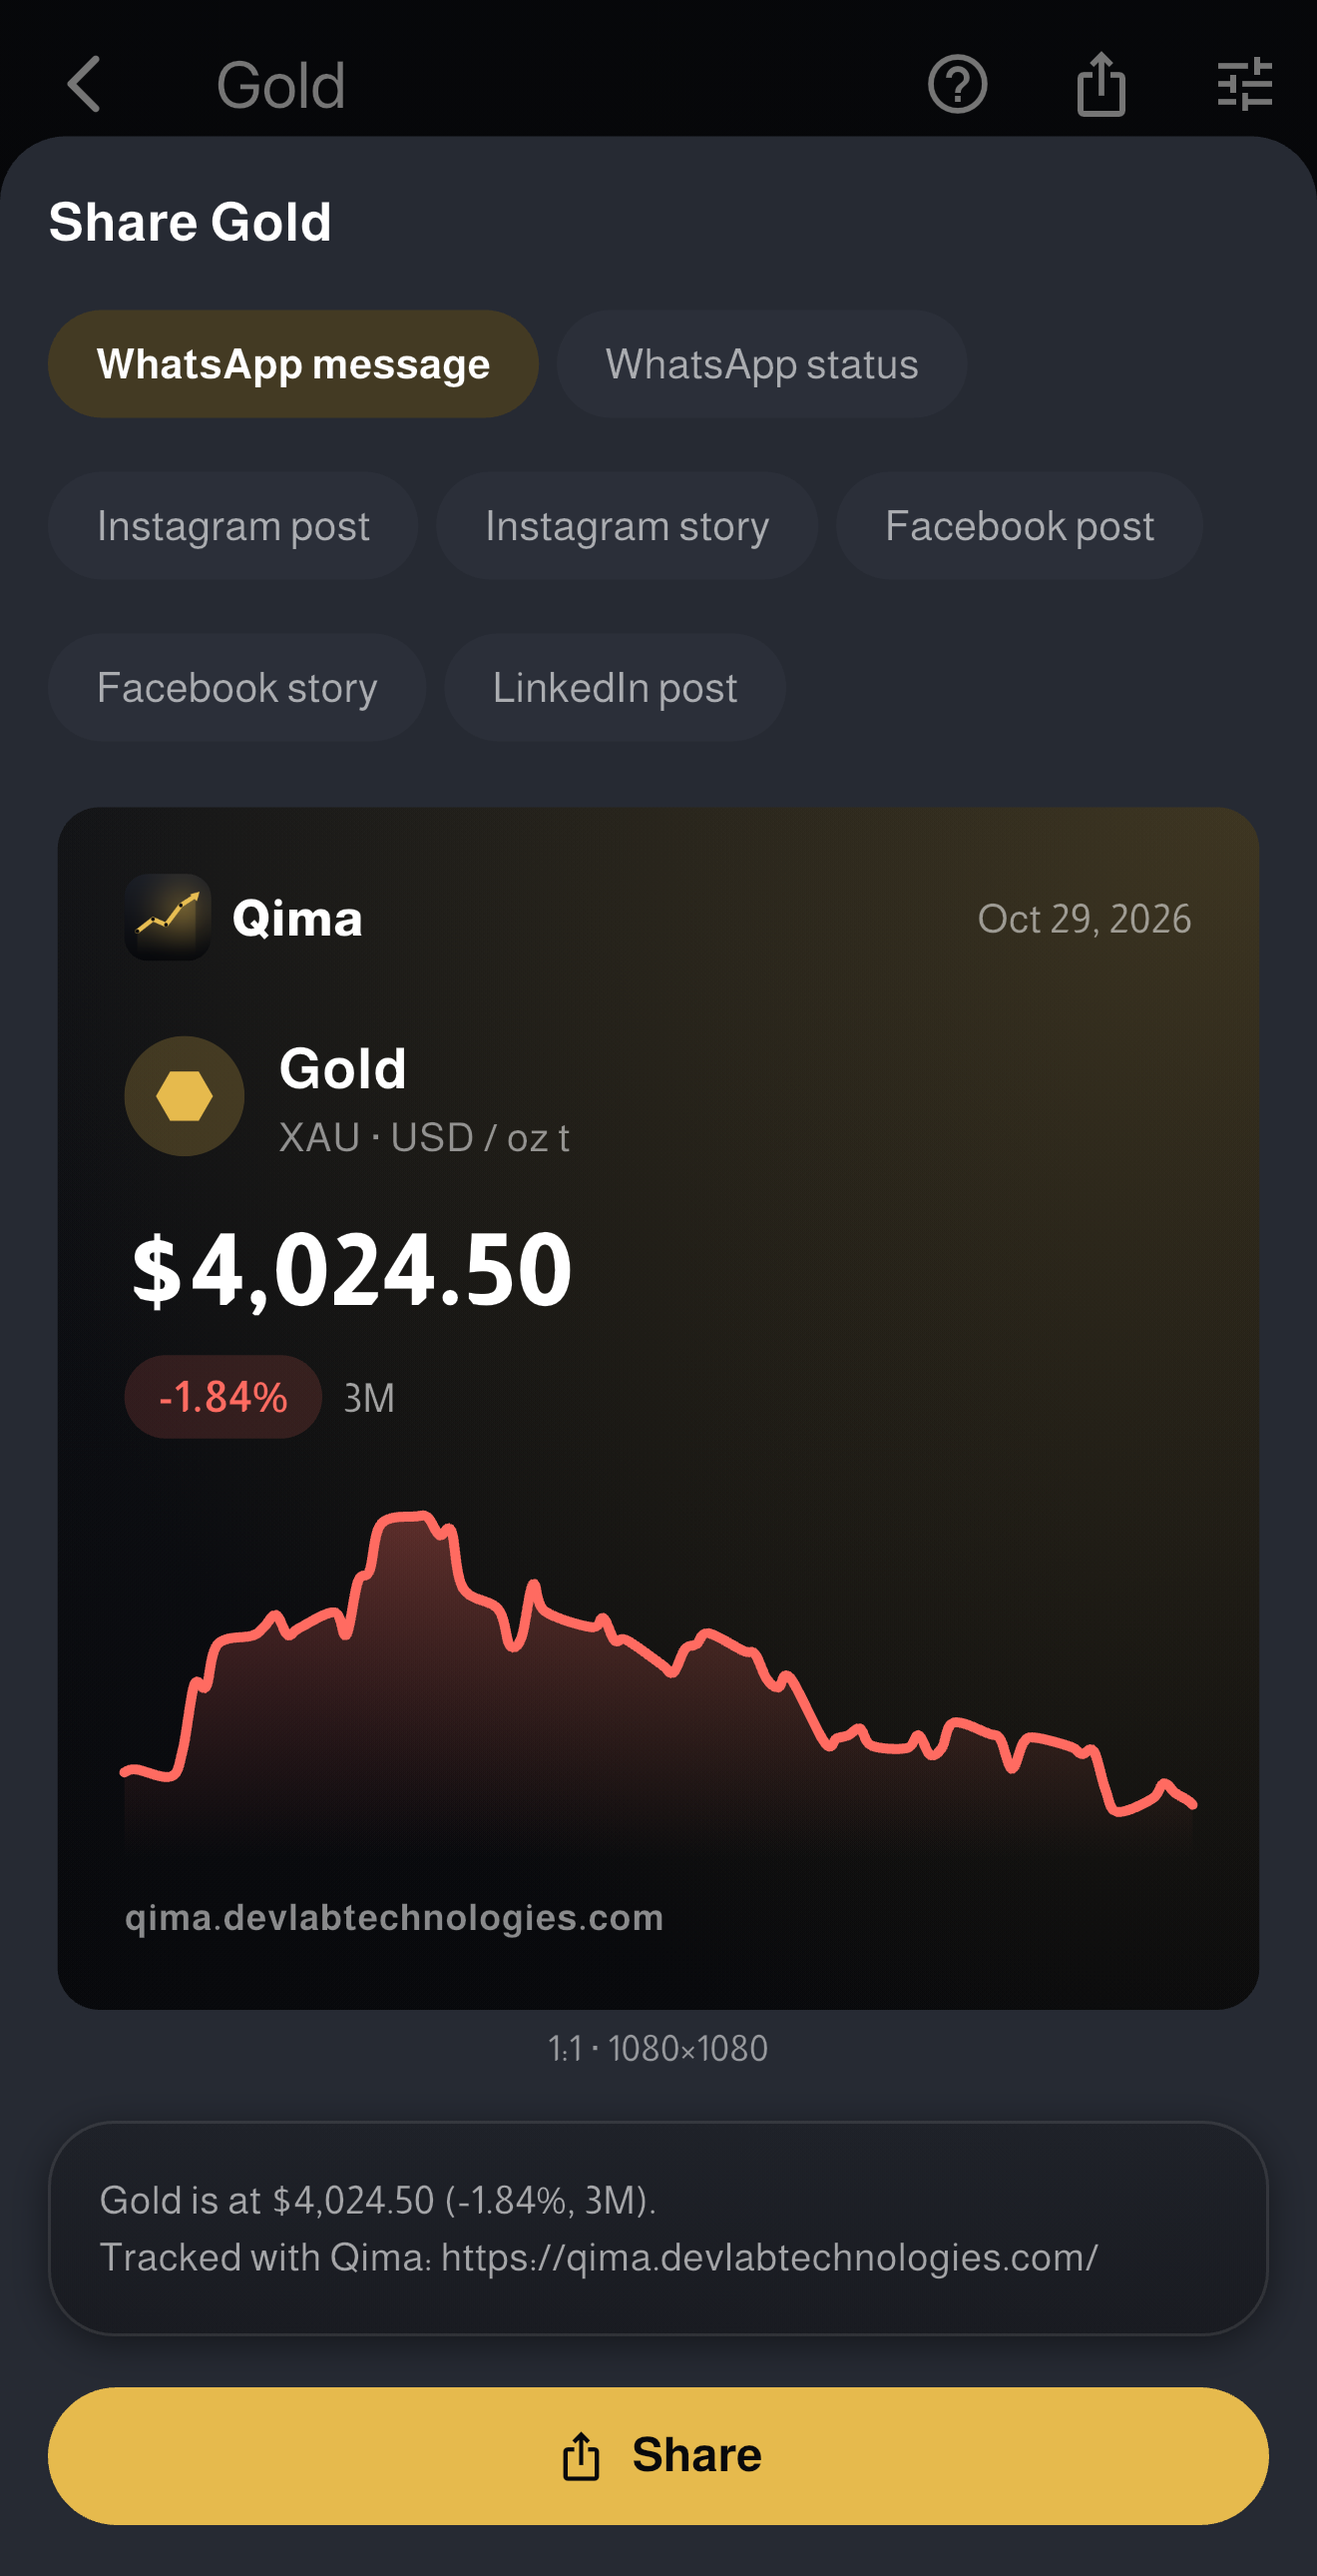
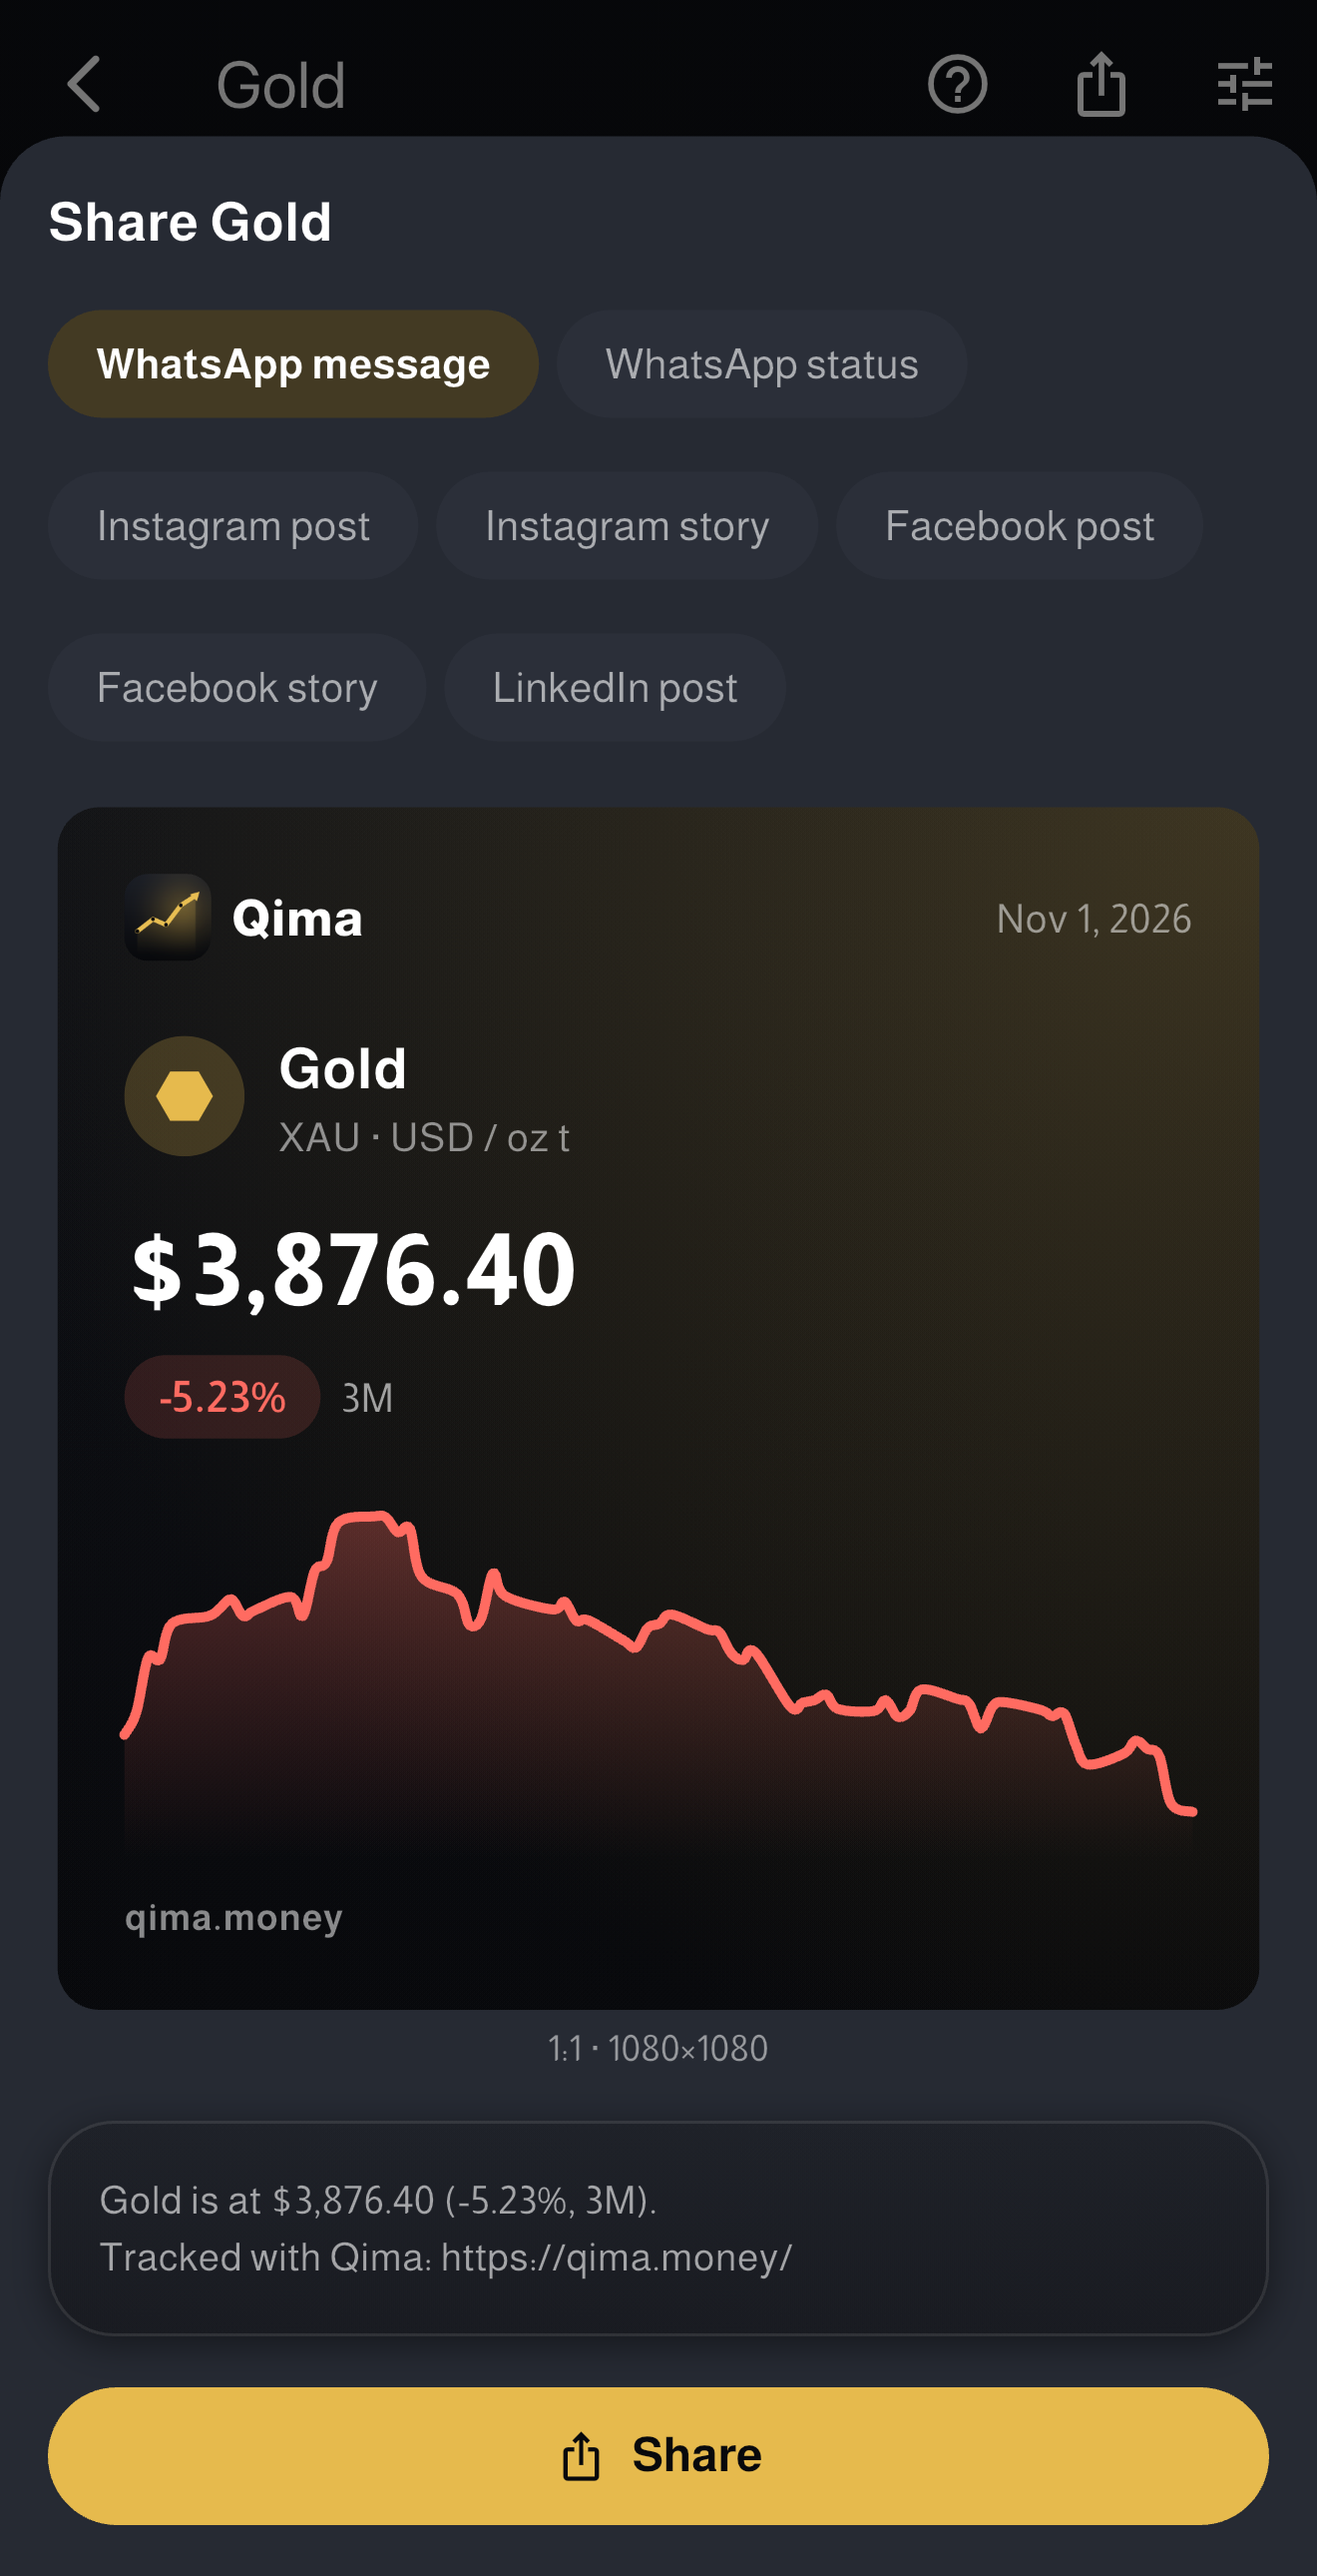
Move the website to qima.money
Point the share caption and image label, the App Store marketing and
privacy URLs, and the store release guide at qima.money, and recapture the
share screenshots (App Store iPhone and iPad, Play phone; English and
Arabic) so the card shows the new address. The old domain now redirects
there.

diff --git a/lib/screens/share_asset_sheet.dart b/lib/screens/share_asset_sheet.dart
@@ -20,8 +20,8 @@ import '../theme/strings.dart';
 import '../widgets/asset_share_card.dart';
 
 /// The site the shared image and caption point people to.
-const String qimaSiteLabel = 'qima.devlabtechnologies.com';
-const String qimaSiteUrl = 'https://qima.devlabtechnologies.com/';
+const String qimaSiteLabel = 'qima.money';
+const String qimaSiteUrl = 'https://qima.money/';
 
 /// The text that goes with a shared asset image: price and change, then
 /// where it came from.

diff --git a/test/screens/watchlist_order_share_version_test.dart b/test/screens/watchlist_order_share_version_test.dart
@@ -170,7 +170,7 @@ void main() {
       expect(caption, contains('Gold'));
       expect(caption, contains('2,000.00'));
       expect(caption, contains(', 1M).'));
-      expect(caption, contains('https://qima.devlabtechnologies.com/'));
+      expect(caption, contains('https://qima.money/'));
     });
   });
 

diff --git a/docs/store-release.md b/docs/store-release.md
@@ -140,7 +140,7 @@ if you add them.
 
 ## 4. Console questionnaires
 
-These answers follow from the [privacy policy](https://qima.devlabtechnologies.com/privacy): no accounts, no backend, no analytics, ads or tracking SDKs, and holdings kept on the device.
+These answers follow from the [privacy policy](https://qima.money/privacy): no accounts, no backend, no analytics, ads or tracking SDKs, and holdings kept on the device.
 
 ### App Store Connect
 
@@ -153,7 +153,7 @@ These answers follow from the [privacy policy](https://qima.devlabtechnologies.c
 | Primary category | Finance |
 | Price | Free |
 | Sign-in required for review | No (note: *"No account needed. Add an instrument with the + button; holdings are optional."*) |
-| Privacy policy URL | https://qima.devlabtechnologies.com/privacy |
+| Privacy policy URL | https://qima.money/privacy |
 | Support URL | https://github.com/DevLab-Technologies/Qima/issues |
 
 ### Google Play Console
